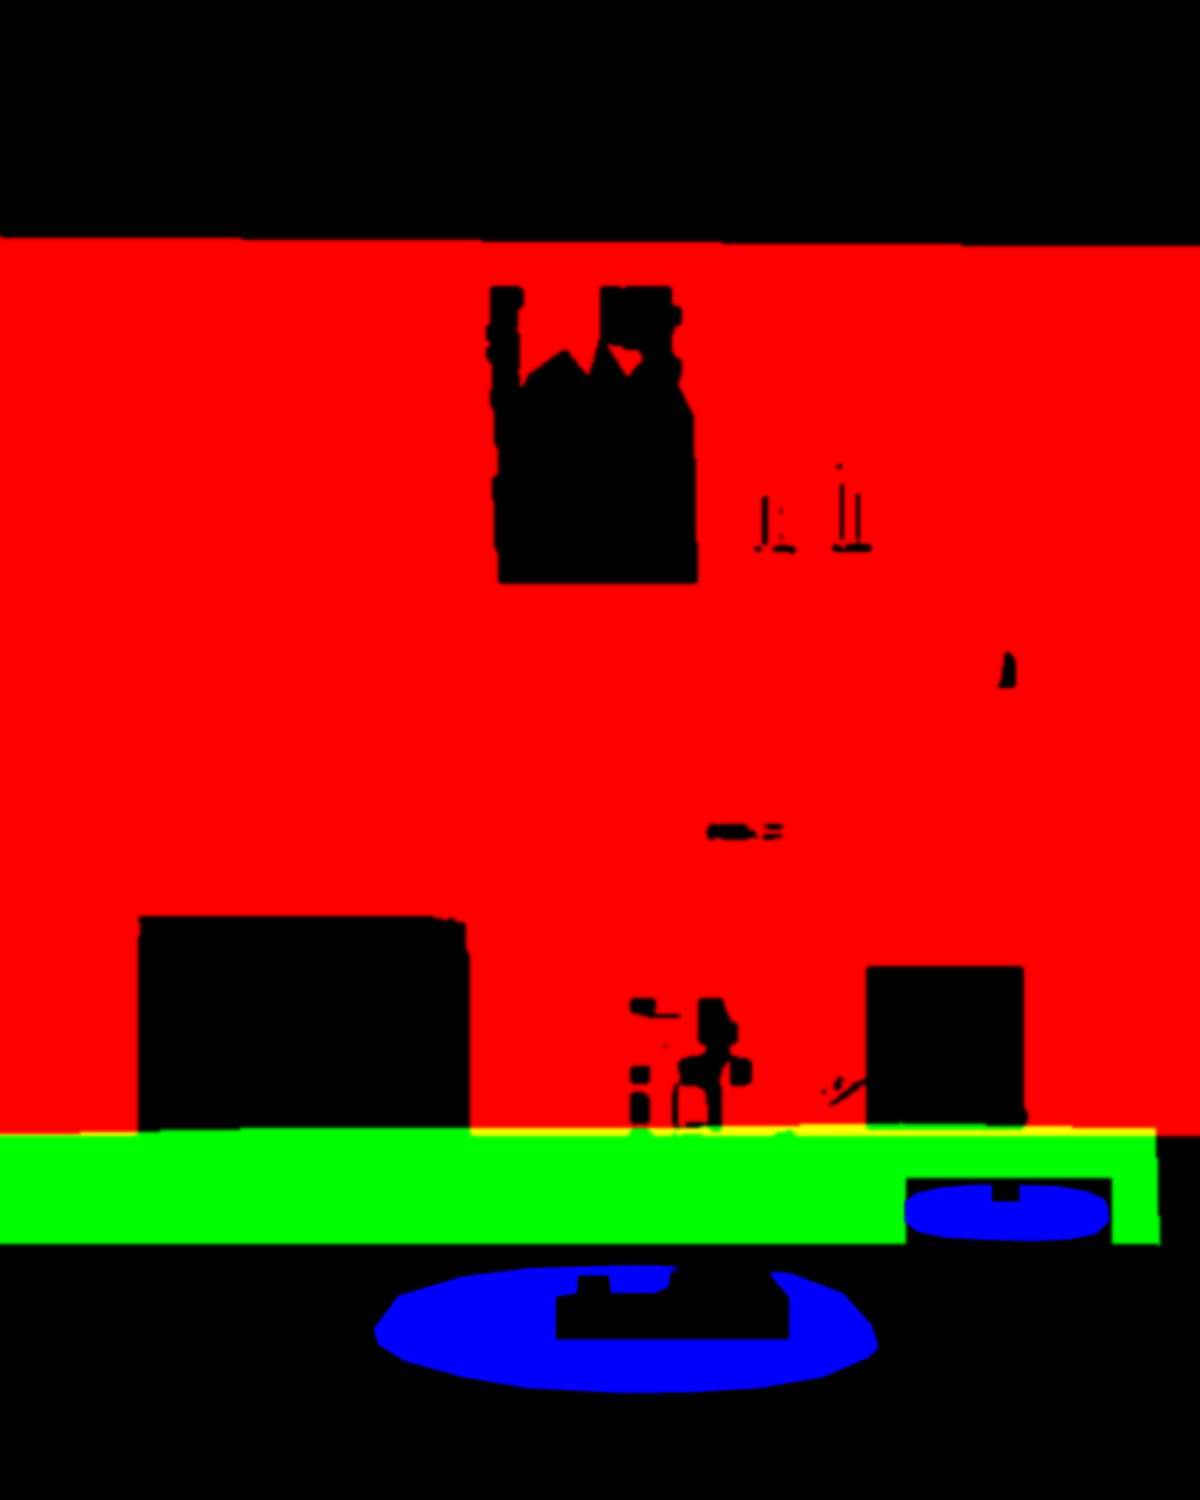
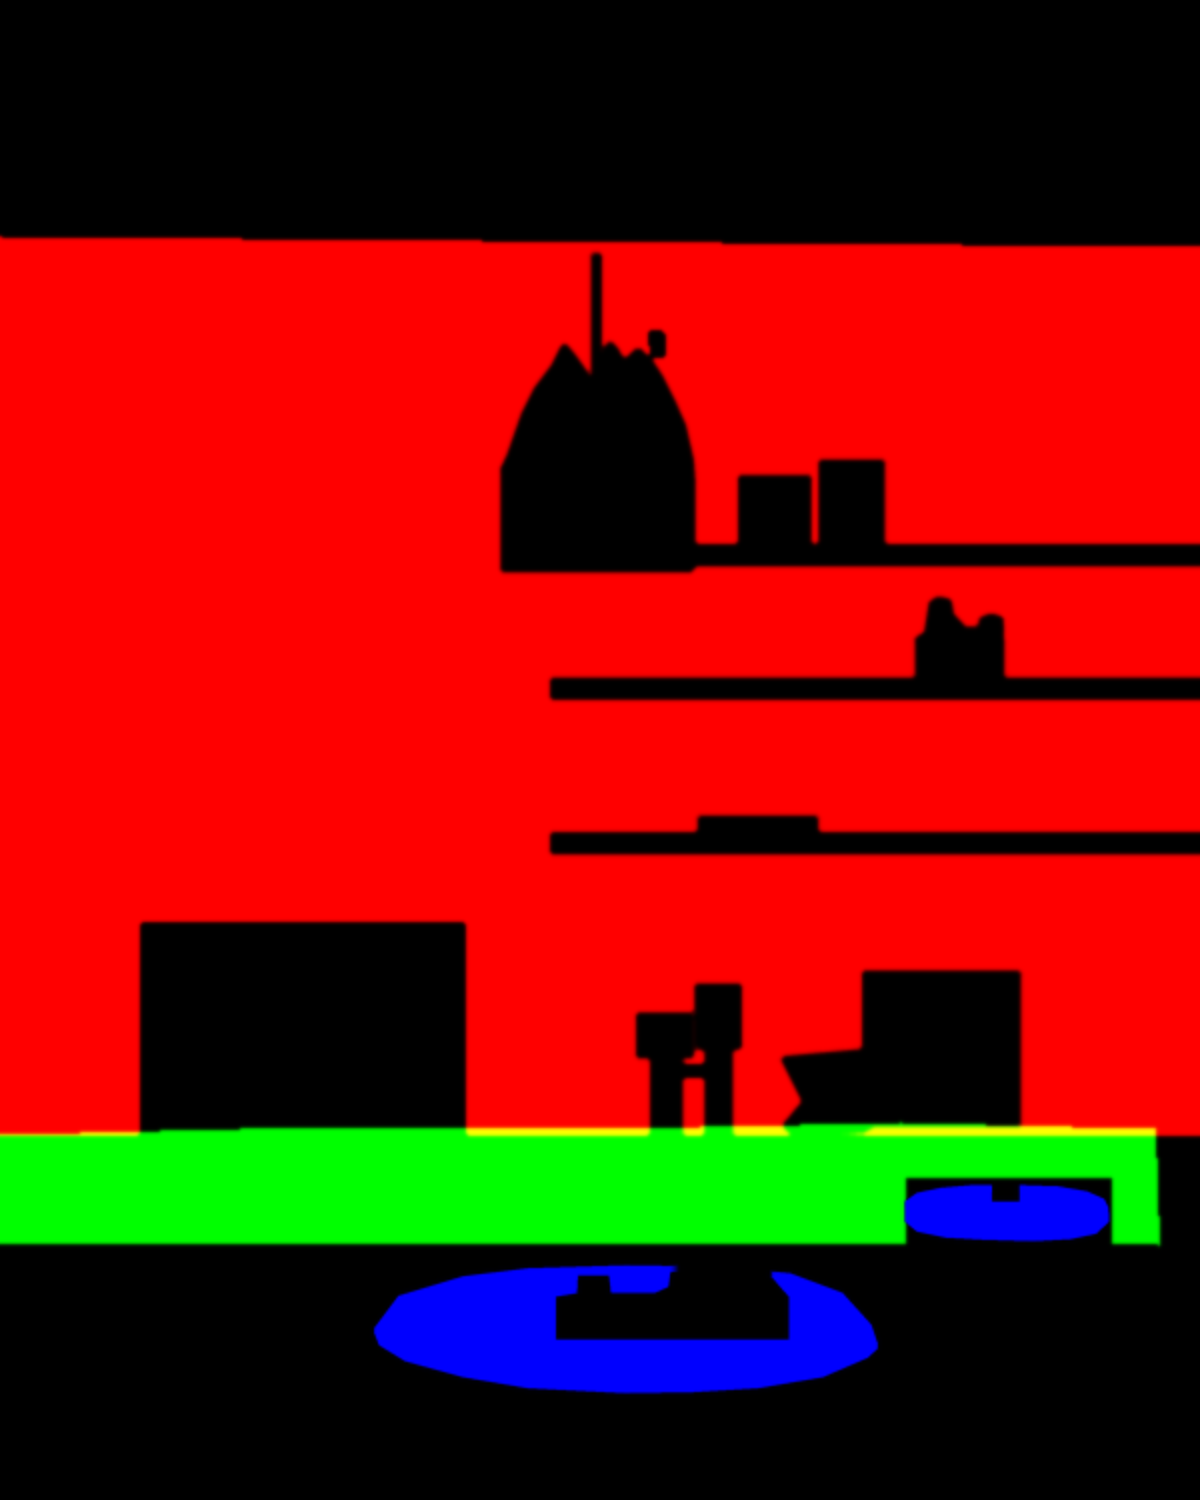
Scala Vera: maschera parete a poligoni su a2r, tocco tollerante sui tavolini

diff --git a/src/concepts/scalavera/motore/riarreda.ts b/src/concepts/scalavera/motore/riarreda.ts
@@ -103,6 +103,7 @@ export async function avviaRiarredo(
 	src: { foto: string; maschere: string; atlante: string },
 	rif: [number, number, number],
 	centri: [number, number][],
+	zone: [number, number, number, number, number][] = [], // [superficie, x0, y0, x1, y1] in uv: aree da toccare fuori dalla maschera (gambe)
 ): Promise<Riarredo | null> {
 	const gl = canvas.getContext('webgl2', { antialias: false, alpha: false, preserveDrawingBuffer: false });
 	if (!gl) return null;
@@ -212,10 +213,26 @@ export async function avviaRiarredo(
 		},
 		originale(on) { voluto = on ? 1 : 0; sveglia(); },
 		superficieIn(x, y) {
-			const i = (Math.min(149, Math.max(0, Math.floor(y * 150))) * 120 + Math.min(119, Math.max(0, Math.floor(x * 120)))) * 4;
-			const v = [pixel[i], pixel[i + 1], pixel[i + 2]];
-			const max = Math.max(...v);
-			return max > 110 ? v.indexOf(max) : -1;
+			// Il dito non è preciso: fuori da ogni maschera si prende la superficie più vicina (fino a ~4% della larghezza).
+			const a = (cx: number, cy: number) => {
+				const i = (Math.min(149, Math.max(0, cy)) * 120 + Math.min(119, Math.max(0, cx))) * 4;
+				const v = [pixel[i], pixel[i + 1], pixel[i + 2]];
+				const max = Math.max(...v);
+				return max > 110 ? v.indexOf(max) : -1;
+			};
+			const cx = Math.floor(x * 120), cy = Math.floor(y * 150);
+			for (let r = 0; r <= 5; r++) {
+				let trovata = -1, meglio = Infinity;
+				for (let dy = -r; dy <= r; dy++) {
+					for (let dx = -r; dx <= r; dx++) {
+						if (Math.max(Math.abs(dx), Math.abs(dy)) !== r) continue;
+						const s = a(cx + dx, cy + dy), d = dx * dx + dy * dy;
+						if (s >= 0 && d < meglio) { meglio = d; trovata = s; }
+					}
+				}
+				if (trovata >= 0) return trovata;
+			}
+			return zone.find((z) => x >= z[1] && x <= z[3] && y >= z[2] && y <= z[4])?.[0] ?? -1;
 		},
 		distruggi() { cancelAnimationFrame(raf); ro.disconnect(); },
 	};

diff --git a/tools/scalavera-maschere.py b/tools/scalavera-maschere.py
@@ -1,6 +1,6 @@
 # Maschere di "riarreda la foto" su a2: R = parete, G = mensola in pietra, B = tavolini. Solo Pillow.
 import sys
-from PIL import Image, ImageDraw, ImageFilter
+from PIL import Image, ImageDraw, ImageFilter, ImageChops
 src, out = sys.argv[1], sys.argv[2]
 W, H = 600, 750
 im = Image.open(src).convert('RGB').resize((W, H), Image.LANCZOS)
@@ -45,6 +45,42 @@ dp = ImageDraw.Draw(parete)
 dp.rectangle((.118 * W, .615 * H, .387 * W, .76 * H), fill=0)          # nicchia
 dp.rectangle((.722 * W, .645 * H, .852 * W, .752 * H), fill=0)         # quadro
 dp.polygon(P([(.416, .388), (.416, .29), (.44, .25), (.47, .232), (.49, .252), (.5, .225), (.522, .252), (.547, .228), (.577, .278), (.58, .388)]), fill=0)  # lampada
+if len(sys.argv) > 3:
+    # Foto a2r: colore ovunque (niente rettangoli grossolani attorno agli oggetti), poi si tolgono gli oggetti con poligoni
+    # tracciati su ritagli ingranditi. Ogni lambda porta le coordinate del ritaglio in uv.
+    parete = Image.new('L', (W, H), 0)
+    m = parete.load()
+    for y in range(H):
+        for x in range(W):
+            if not r[x, y]: continue
+            (a, b), l = cr(px[x, y])
+            if ((a - rr) ** 2 + (b - rg) ** 2) ** 0.5 < 0.06 and 10 < l < 205: m[x, y] = 255
+    parete = parete.filter(ImageFilter.MaxFilter(7)).filter(ImageFilter.MinFilter(7))
+    SS = 4
+    esc = Image.new('L', (W * SS, H * SS), 0)
+    de = ImageDraw.Draw(esc)
+    ritaglio = lambda u0, u1, v0, v1, cw, ch: (lambda x, y: ((u0 + x / cw * (u1 - u0)) * W * SS, (v0 + y / ch * (v1 - v0)) * H * SS))
+    A = ritaglio(.40, .60, .17, .40, 1100, 1586)   # lampada a sospensione
+    Bq = ritaglio(.60, .90, .28, .48, 1100, 919)   # vasi e statuina
+    Cq = ritaglio(.50, .90, .62, .76, 1100, 483)   # lampade da tavolo, scultura, cornice
+    poly = lambda f, pts: de.polygon([f(*q) for q in pts], fill=255)
+    poly(A, [(105, 1450), (105, 990), (135, 925), (200, 735), (255, 625), (335, 515), (385, 418), (430, 470), (515, 590), (545, 540), (570, 450), (595, 405), (625, 440), (655, 495), (690, 470), (725, 438), (780, 490), (830, 570), (880, 670), (935, 790), (970, 950), (978, 1050), (978, 1430), (955, 1452)])
+    poly(A, [(518, 0), (548, 0), (548, 600), (518, 600)])                          # cavo
+    poly(Bq, [(62, 175), (272, 175), (272, 408), (62, 408)])                       # vaso 1
+    poly(Bq, [(308, 128), (497, 128), (497, 408), (308, 408)])                     # vaso 2
+    poly(Bq, [(603, 822), (603, 670), (630, 658), (640, 600), (645, 562), (670, 548), (700, 555), (708, 600), (745, 640), (795, 640), (800, 610), (830, 600), (860, 610), (862, 700), (862, 822)])  # statuina
+    poly(Cq, [(88, 195), (210, 195), (210, 290), (185, 292), (185, 472), (120, 472), (120, 292), (88, 290)])   # lampada nera
+    poly(Cq, [(222, 128), (320, 128), (320, 270), (300, 272), (300, 472), (245, 472), (245, 272), (222, 270)])   # lampada bianca
+    poly(Cq, [(420, 295), (610, 278), (640, 305), (640, 440), (600, 462), (450, 472), (425, 450), (470, 395)])   # scultura in ferro
+    poly(Cq, [(606, 98), (960, 98), (960, 448), (606, 448)])                       # cornice
+    # mensole in acciaio (fili scuri con ombra) e libro
+    for xa, xb, v in ((.46, 1.0, .369), (.46, 1.0, .458), (.46, 1.0, .561)):
+        de.rectangle((xa * W * SS, (v - .005) * H * SS, xb * W * SS, (v + .007) * H * SS), fill=255)
+    de.rectangle((.583 * W * SS, .545 * H * SS, .68 * W * SS, .565 * H * SS), fill=255)
+    esc = esc.resize((W, H), Image.LANCZOS).filter(ImageFilter.MaxFilter(3))
+    parete = ImageChops.subtract(parete, esc)
+    dp = ImageDraw.Draw(parete)
+    dp.rectangle((.118 * W, .615 * H, .387 * W, .76 * H), fill=0)                  # nicchia
 parete = parete.filter(ImageFilter.MedianFilter(3)).filter(ImageFilter.GaussianBlur(0.8))
 mensola = Image.new('L', (W, H), 0)
 dm = ImageDraw.Draw(mensola)

diff --git a/docs/concept/scalavera.md b/docs/concept/scalavera.md
@@ -7,3 +7,5 @@
 **2026-10-21, Riarreda:** maschera dei tavolini rifatta in `tools/scalavera-maschere.py` (poligoni a 4× tarati su un ritaglio della foto, buchi solo per vassoio, bicchiere e gambe in acciaio; la mensola è ora sottratta dai tavolini): prima restavano strisce di travertino originale sul noce. Luminanza di riferimento dei tavolini 0,398 (era 0,389, in `Riarreda.astro`). Per far capire che le superfici sono tre e indipendenti: punti gialli che pulsano sulla foto con il nome (diventano "Parete · Salvia" dopo la scelta, il pulsare si ferma al primo uso, spento con reduced-motion), campione "+" tratteggiato a destra di ogni riga che diventa la finitura scelta, titolo "Finitura · Parete" che segue la superficie attiva, tre tacche + frase di avanzamento ("Cambiate 2 su 3: prova anche Mensola"). I segni sono solo visivi (`pointer-events: none`, `aria-hidden`): il tocco lo risolve la maschera.
 
 **2026-10-21, foto di Riarreda:** "Prova prima del cantiere" usa una versione ritoccata dall'autore (`foto/a2r-parete.jpg`, 1121×1403; tavolini ridotti a piano tondo su barra di ferro, senza la base in pietra, il resto del soggiorno identico). Maschere in `foto/a2r-maschere.png`, generate con `python tools/scalavera-maschere.py <a2r-parete.jpg> <a2r-maschere.png> sottili`; luminanze di riferimento 0,365 / 0,648 / 0,584. La **discesa a scroll** (`Discesa.astro`, `scena.ts`) usa ancora l'originale `a2-parete.jpg` e `a6` con il tavolo massiccio: non toccate di proposito. Cancellato il vecchio `a2-maschere.png` (non più usato). Dichiarare nel sito che le foto sono render rielaborati.
+
+**2026-10-21 (poi), maschere di a2r:** la parete è ora colore ovunque meno poligoni precisi per lampada, cavo, vasi, statuina, mensole in acciaio, libro, lampade da tavolo, scultura e cornice (coordinate in `tools/scalavera-maschere.py`, modalità `sottili`); prima i rettangoli grossolani lasciavano aloni e tingevano gli oggetti. Il tocco sulla foto ora cerca la superficie più vicina entro ~4% della larghezza e ha zone extra per le gambe dei tavolini (`zone` in `avviaRiarredo`). Luminanze di riferimento 0,377 / 0,648 / 0,57. Resta la cornice chiara della nicchia del camino (bordo originale, non ricolorato).
